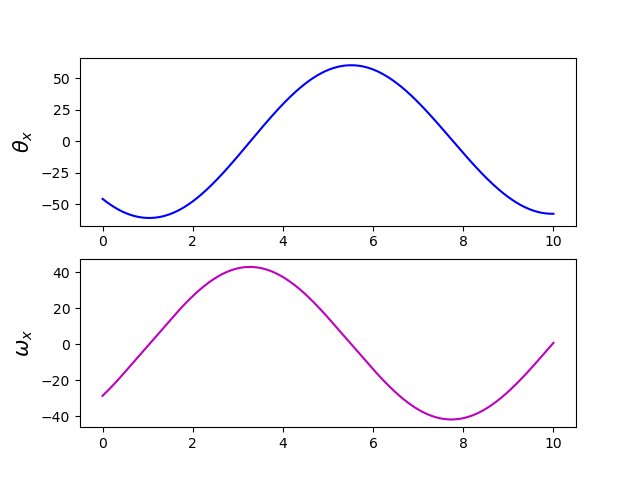
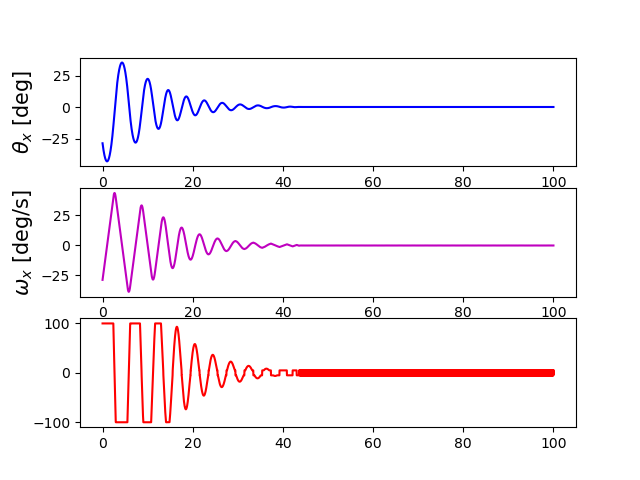
mildly tuned

diff --git a/controller/RCS_PID/simulation.py b/controller/RCS_PID/simulation.py
@@ -4,7 +4,7 @@ import numpy as np
 import matplotlib.pyplot as plt
 
 # --INITIALIZE STATE--
-theta0 = -0.8 # rad
+theta0 = -0.5 # rad
 omega0 = -0.5 # rad/s
 initial_state = [theta0, omega0]
 # --------------------
@@ -14,13 +14,13 @@ dt = 0.01
 mmoi = 1000
 rz = 5 # vertical distance from COM to thruster 
 sim_time = 0
-time_limit = 10
+time_limit = 100
 # --------------
 
 # --CONTROLLER PARAMS--
-Kp = 100
+Kp = 500
 Ki = 1
-Kd = 5
+Kd = 50
 min_thrust = 5
 max_thrust = 100
 # ---------------------
@@ -29,7 +29,7 @@ controller = PID(Kp, Ki, Kd)
 controller.setLims(min_thrust, max_thrust) # min & max thrust in newtons
 rocket = oneDofPhysics(initial_state, mmoi, rz)
 
-N = int(time_limit/dt)+1
+N = int(time_limit/dt)
 thetas = [None]*N
 omegas = [None]*N
 commands = [None]*N
@@ -52,11 +52,12 @@ while sim_time < time_limit:
 theta_deg = [t*360/(2*np.pi) for t in thetas]
 omega_deg_s = [o*360/(2*np.pi) for o in omegas]
 time = np.linspace(0, time_limit, N)
-fig, ax = plt.subplots(2)
+fig, ax = plt.subplots(3)
 ax[0].plot(time, theta_deg, 'b-')
 ax[1].plot(time, omega_deg_s,'m-')
-ax[0].set_ylabel(r"$\theta_x$", fontsize=15)
-ax[1].set_ylabel(r"$\omega_x$", fontsize=15)
+ax[2].plot(time, commands, 'r-')
+ax[0].set_ylabel(r"$\theta_x$ [deg]", fontsize=15)
+ax[1].set_ylabel(r"$\omega_x$ [deg/s]", fontsize=15)
 
 fig.savefig("RCS_PID/figs/states_over_time")
 fig.show()
